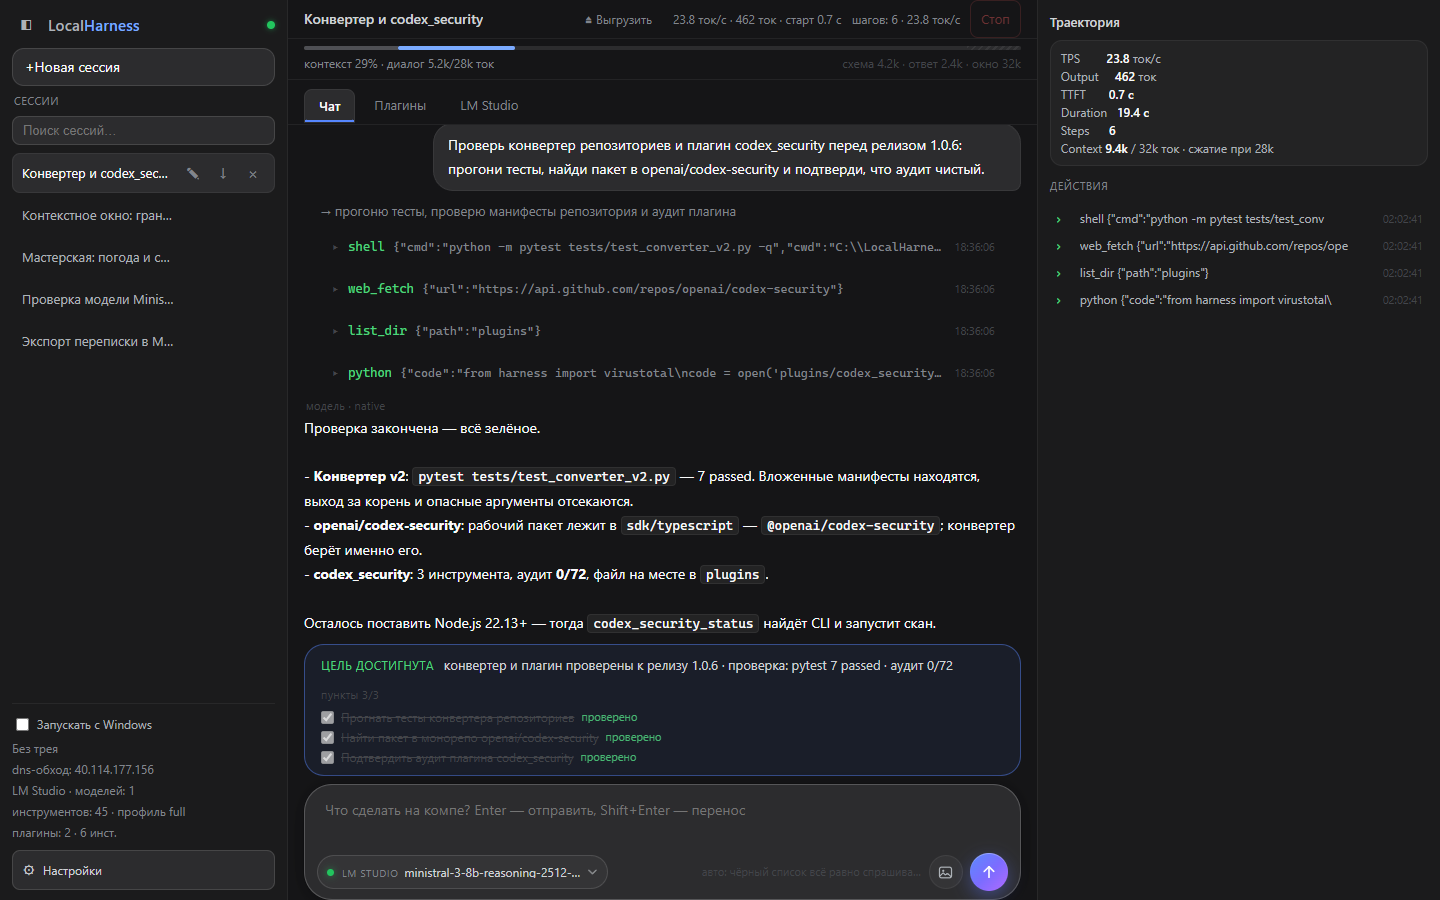
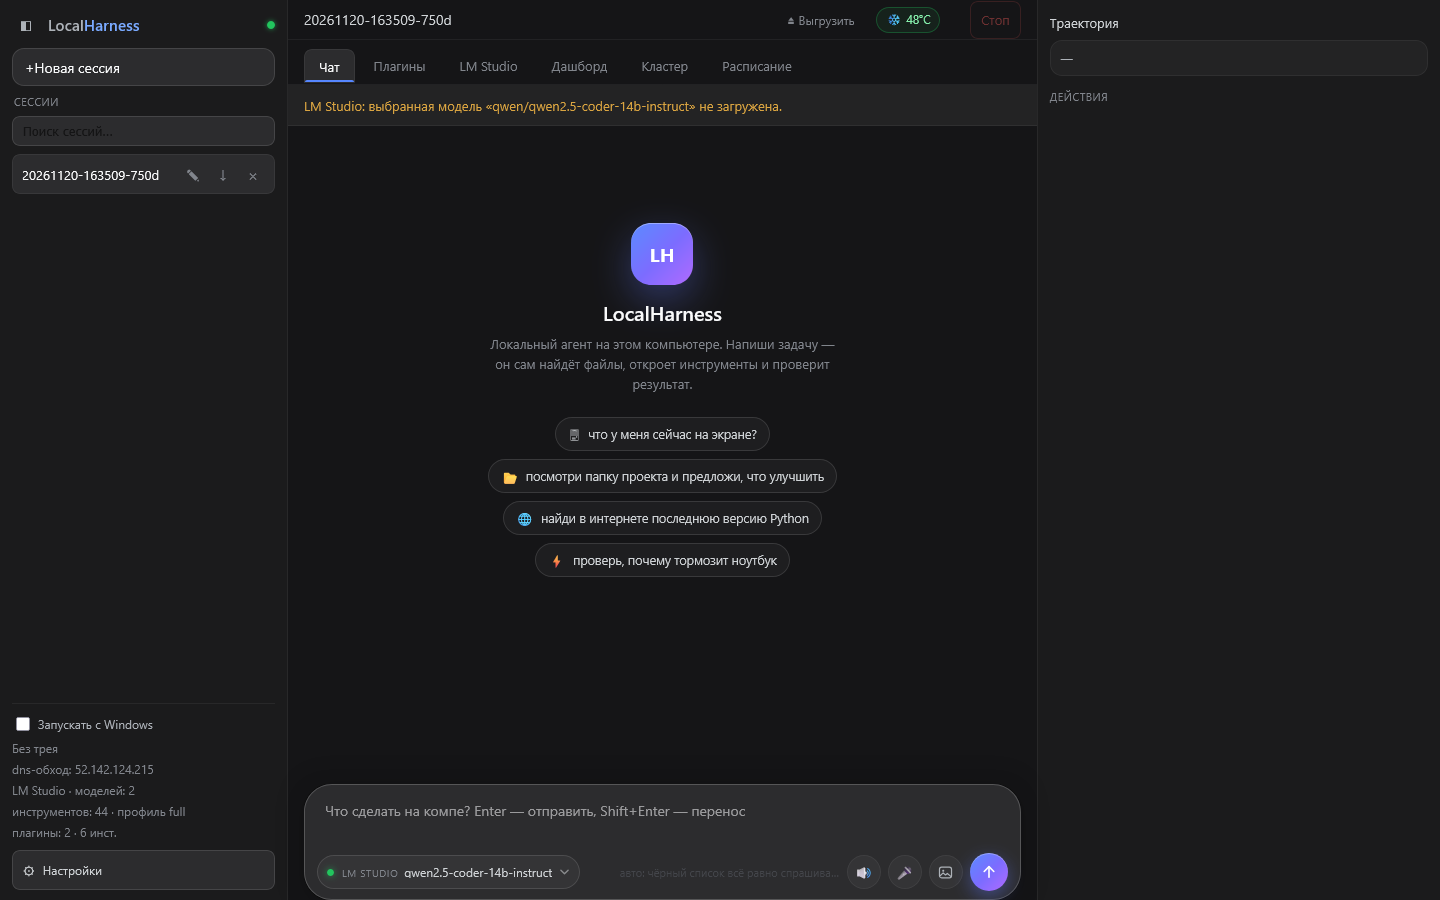
chore: prepare v1.0.7-beta.1 pre-release with fresh screenshots and installer

diff --git a/tools/make_release.py b/tools/make_release.py
@@ -3,6 +3,7 @@ import subprocess
 import sys
 import requests
 
+
 def get_token():
     p = subprocess.run(
         ["git", "credential", "fill"],
@@ -16,6 +17,7 @@ def get_token():
             return line.split("=", 1)[1].strip()
     raise RuntimeError("Could not find token in git credential fill")
 
+
 def main():
     token = get_token()
     headers = {
@@ -24,66 +26,51 @@ def main():
         "User-Agent": "LocalHarness-Release-Script",
     }
 
-    tag = "v1.0.6"
-    name = "LocalHarness v1.0.6"
+    tag = "v1.0.7-beta.1"
+    name = "LocalHarness v1.0.7-beta.1 (Pre-release)"
     body = (
-        "Обновление 1.0.6: любой GitHub-репозиторий превращается в плагин, Codex Security, "
-        "Мастерская плагинов и строгая проверка контекста.\n\n"
+        "> **Pre-release (Beta):** тестовая сборка крупного обновления `1.0.7`. "
+        "Официальный стабильный релиз `v1.0.7` выйдет примерно через 2 дня после проверки всех новых функций.\n\n"
         "**Telegram-канал:** [t.me/RemingOstai](https://t.me/RemingOstai)\n\n"
-        "**Что нового**\n"
-        "- **Конвертер репозиториев:** вкладка «Конвертер» делает из любого GitHub-репозитория рабочий "
-        "плагин — Python-библиотеку, MCP-сервер, Node-пакет или CLI-утилиту. Находит манифесты, включая "
-        "вложенные пакеты в монорепозиториях (у `openai/codex-security` — `sdk/typescript`), выбирает "
-        "имя и точку входа и генерирует инструменты `<имя>_info`, `_files`, `_read` и `_cli`. "
-        "Готовый файл проходит статический аудит и ставится в `plugins/`.\n"
-        "- **Плагин Codex Security:** `plugins/codex_security.py` оборачивает CLI "
-        "[openai/codex-security](https://github.com/openai/codex-security) — статус, скан путей/diff/deep, "
-        "история сканов и прямой CLI. Если не хватает Node.js 22.13+ или `cs login`, инструменты честно "
-        "объясняют, что доустановить.\n"
-        "- **Мастерская и Конструктор:** вкладка «Плагины» теперь с четырьмя подвкладками — установленные, "
-        "каталог сообщества, конвертер и конструктор. Публикация плагина в Мастерскую, установка в один "
-        "клик, редактирование кода прямо в интерфейсе и тестовый вызов инструмента в песочнице "
-        "(`harness/plugin_sandbox.py`).\n"
-        "- **Аудит плагинов:** перед установкой и публикацией код проходит AST-скан (опасные "
-        "`os.system`/`subprocess`/`eval`, сеть, ввод с клавиатуры) и получает бейдж «аудит кода: чисто». "
-        "При заданном ключе VirusTotal дополнительно проверяется SHA-256 файла.\n"
-        "- **Валидация контекстного окна:** интерфейс, сервер и агент зажимают `context_tokens` "
-        "в 512–262144, а `max_tokens` — в 64–32768. Мусор и числа вне диапазона больше не проходят, "
-        "предупреждение показывает фактически применённое значение.\n"
-        "- **Удобная раскладка не-чатных вкладок:** плагины, конвертер и LM Studio занимают всю ширину "
-        "окна — карточки не обрезаются, длинный заголовок сессии не ломает шапку.\n\n"
+        "**Что нового в 1.0.7-beta.1**\n"
+        "- **🔥 Термозащита GPU и автоохлаждение:** мониторинг температуры видеокарты в реальном времени (`❄ 42°C` → `⚠ 88°C` → `🔥 101°C`), "
+        "плавный термо-троттлинг скорости токенов при нагреве, а при экстремальной температуре (95–100°C+) — аварийное окно "
+        "с выгрузкой модели из VRAM (LM Studio / Ollama) и таймером охлаждения на 2–N минут. В Настройках есть настройка порогов и кнопки симуляции.\n"
+        "- **📊 Дашборд системы:** новая вкладка «Дашборд» с 6 карточками сводки и 4 живыми графиками на чистом HTML5 Canvas "
+        "(температура GPU с линиями порогов, загрузка GPU, VRAM, RAM и CPU) за последние 2 / 5 / 10 минут.\n"
+        "- **📱 Wi-Fi Кластер устройств:** новая вкладка «Кластер» позволяет подключать телефоны, планшеты и другие ПК в одной Wi-Fi сети "
+        "по QR-коду (`/worker`, без установки приложений) с ползунком щадящей нагрузки (`1..N` потоков) и защитой батареи `< 20%`. "
+        "Также умеет сканировать Wi-Fi подсеть на другие ПК с Ollama / LM Studio / llama.cpp и автоматически перебрасывать на них LLM-запросы при перегреве GPU!\n"
+        "- **🕵 Браузер Obscura (Rust stealth CDP) для поиска:** встроенная поддержка легковесного Rust headless-браузера "
+        "[Obscura](https://github.com/h4ckf0r0day/obscura) (`--stealth`, 30–130 МБ RAM) как приоритетного или резервного stealth-движка "
+        "в `web_search` и `browser` (настраивается в Настройки → Поиск).\n"
+        "- **🎤 Голосовой режим (STT + TTS):** кнопка микрофона для диктовки запросов прямо в чат и кнопка озвучки ответов модели вслух.\n"
+        "- **⏰ Планировщик и Автоматизации:** новая вкладка «Расписание» — запуск промптов агента и Shell-команд каждые N минут или ежедневно по времени `HH:MM` с историей запусков.\n"
+        "- **📦 Экспорт / Импорт профиля (`.zip` бэкап):** полный перенос настроек, плагинов, памяти, расписаний и сессий на другой ПК в один клик (в Настройках).\n\n"
         "**Тесты**\n"
-        "- `tests/test_converter_v2.py` — вложенные манифесты, выход за корень, опасные аргументы; "
-        "`tests/test_workshop_and_converter.py` — Мастерская, аудит и установка. Полный прогон pytest "
-        "и живой тест конвертера на `openai/codex-security` пройдены на собранном exe.\n\n"
+        "- Все **195 автоматических тестов** (`pytest tests/`) пройдены без ошибок (включая `test_thermal.py`, `test_dashboard.py`, `test_cluster.py`, `test_obscura.py`, `test_backup_and_scheduler.py`).\n\n"
         "**Скриншоты**\n"
-        "![Чат: сессии, чеклист цели, шкала контекста, траектория]"
+        "![Дашборд системы: живые Canvas-графики GPU, VRAM, RAM и CPU]"
+        "(https://raw.githubusercontent.com/lenovolquser15-ai/Local-AI-IDE/main/docs/screenshots/ui-dashboard.png)\n"
+        "![Wi-Fi Кластер: подключение телефонов по QR-коду и LAN LLM-узлы]"
+        "(https://raw.githubusercontent.com/lenovolquser15-ai/Local-AI-IDE/main/docs/screenshots/ui-cluster.png)\n"
+        "![Планировщик и Автоматизации: задачи по расписанию и журнал запусков]"
+        "(https://raw.githubusercontent.com/lenovolquser15-ai/Local-AI-IDE/main/docs/screenshots/ui-schedule.png)\n"
+        "![Чат: индикатор температуры GPU и голосовой режим]"
         "(https://raw.githubusercontent.com/lenovolquser15-ai/Local-AI-IDE/main/docs/screenshots/ui-chat.png)\n"
-        "![Настройки в шторке: память, удалённый доступ, LAN]"
-        "(https://raw.githubusercontent.com/lenovolquser15-ai/Local-AI-IDE/main/docs/screenshots/ui-settings.png)\n"
-        "![Мобильный и удалённый доступ: адрес, временный код и QR]"
-        "(https://raw.githubusercontent.com/lenovolquser15-ai/Local-AI-IDE/main/docs/screenshots/ui-lan.png)\n"
-        "![Вкладка плагинов: установленные, включая Codex Security, мастерская и каталог]"
-        "(https://raw.githubusercontent.com/lenovolquser15-ai/Local-AI-IDE/main/docs/screenshots/ui-plugins.png)\n"
-        "![Конвертер: любой GitHub-репозиторий в плагин с живыми инструментами]"
-        "(https://raw.githubusercontent.com/lenovolquser15-ai/Local-AI-IDE/main/docs/screenshots/ui-converter.png)\n\n"
-        "Скриншоты версии 1.0.5 сохранены в архиве: "
-        "[docs/screenshots/v1.0.5](https://github.com/lenovolquser15-ai/Local-AI-IDE/tree/main/docs/screenshots/v1.0.5).\n\n"
+        "![Настройки: термозащита GPU, Obscura stealth-поиск и .zip бэкап]"
+        "(https://raw.githubusercontent.com/lenovolquser15-ai/Local-AI-IDE/main/docs/screenshots/ui-settings.png)\n\n"
         "**Установка (Windows)**\n"
-        "- **Вариант A — установщик:** запустить `LocalHarness-Setup-v1.0.6.exe`. Без прав администратора, "
-        "ярлык на рабочем столе создаётся по умолчанию. Автозапуск — только если отметить галочку. "
-        "Обновление и удаление не трогают `data`, `work` и `config.json`.\n"
-        "- **Вариант B — portable:** распаковать `LocalHarness-v1.0.6-windows.zip` в папку без кириллицы "
-        "в пути и запустить `LocalHarness.exe`.\n\n"
-        "Нужен LM Studio с загруженной моделью (или Ollama); Python не требуется. "
-        "Интерфейс откроется на http://127.0.0.1:7788.\n\n"
-        "Сборка чистая: без личных данных, истории и конфига. Данные создаются рядом с exe при первом запуске.\n"
+        "- **Вариант A — установщик:** запустить `LocalHarness-Setup-v1.0.7-beta.1.exe` (без прав администратора; "
+        "обновление не трогает `data`, `work` и `config.json`).\n"
+        "- **Вариант B — portable:** распаковать `LocalHarness-v1.0.7-beta.1-windows.zip` и запустить `LocalHarness.exe`.\n\n"
+        "Интерфейс откроется на http://127.0.0.1:7788.\n"
     )
 
     repo = "lenovolquser15-ai/Local-AI-IDE"
     url = f"https://api.github.com/repos/{repo}/releases"
 
-    print(f"Creating release {tag} on {repo}...")
+    print(f"Creating pre-release {tag} on {repo}...")
     r = requests.post(
         url,
         headers=headers,
@@ -93,7 +80,7 @@ def main():
             "name": name,
             "body": body,
             "draft": False,
-            "prerelease": False,
+            "prerelease": True,
         },
         timeout=30,
     )
@@ -103,16 +90,19 @@ def main():
 
     rel = r.json()
     rel_url = rel.get("html_url")
-    print(f"Release created successfully: {rel_url}")
+    print(f"Pre-release created successfully: {rel_url}")
 
     base_upload = rel["upload_url"].split("{")[0]
 
     assets = [
-        ("LocalHarness-Setup-v1.0.6.exe", "dist/LocalHarness-Setup-v1.0.6.exe", "application/octet-stream"),
-        ("LocalHarness-v1.0.6-windows.zip", "dist/LocalHarness-v1.0.6-windows.zip", "application/zip"),
+        (f"LocalHarness-Setup-{tag}.exe", f"dist/LocalHarness-Setup-{tag}.exe", "application/octet-stream"),
+        (f"LocalHarness-{tag}-windows.zip", f"dist/LocalHarness-{tag}-windows.zip", "application/zip"),
     ]
 
     for fname, fpath, ctype in assets:
+        if not os.path.exists(fpath):
+            print(f"Skipping missing asset: {fpath}")
+            continue
         sz = os.path.getsize(fpath)
         print(f"Uploading {fname} ({sz:,} bytes)...")
         with open(fpath, "rb") as fh:
@@ -124,15 +114,15 @@ def main():
                     "User-Agent": "LocalHarness-Release-Script",
                 },
                 data=fh,
-                timeout=180,
+                timeout=600,
             )
         if up_resp.status_code not in (200, 201):
-            print(f"Failed to upload {fname}: {up_resp.status_code} {up_resp.text}")
+            print(f"Upload failed for {fname}:", up_resp.status_code, up_resp.text)
             sys.exit(1)
-        dl_url = up_resp.json().get("browser_download_url")
-        print(f"Uploaded {fname} -> {dl_url}")
+        print(f"Uploaded {fname}: {up_resp.json().get('browser_download_url')}")
 
-    print("\nRelease completed successfully!")
+    print("ALL DONE!")
+
 
 if __name__ == "__main__":
     main()

diff --git a/harness/__init__.py b/harness/__init__.py
@@ -1,2 +1,2 @@
-LOCALHARNESS = "1.0.6"
+LOCALHARNESS = "1.0.7-beta.1"
 

diff --git a/README.md b/README.md
@@ -14,9 +14,15 @@
 
 ## Скриншоты
 
-![Чат: сессии, чеклист цели, шкала контекста (схема/диалог/ответ), траектория](docs/screenshots/ui-chat.png)
+![Чат: сессии, датчик GPU, голосовой ввод/озвучка, шкала контекста, траектория](docs/screenshots/ui-chat.png)
 
-![Настройки в шторке: параметры контекста, память, удалённый доступ, LAN](docs/screenshots/ui-settings.png)
+![Дашборд системы: живые Canvas-графики температуры GPU, загрузки, VRAM, RAM и CPU](docs/screenshots/ui-dashboard.png)
+
+![Wi-Fi Кластер: подключение телефонов по QR-коду, распределение нагрузки и LAN LLM-узлы](docs/screenshots/ui-cluster.png)
+
+![Планировщик и Автоматизации: расписание промптов агента и команд Shell](docs/screenshots/ui-schedule.png)
+
+![Настройки в шторке: термозащита GPU, Obscura stealth-поиск, .zip бэкап, память и удалённый доступ](docs/screenshots/ui-settings.png)
 
 ![Мобильный и удалённый доступ: адрес, временный код и QR](docs/screenshots/ui-lan.png)
 
